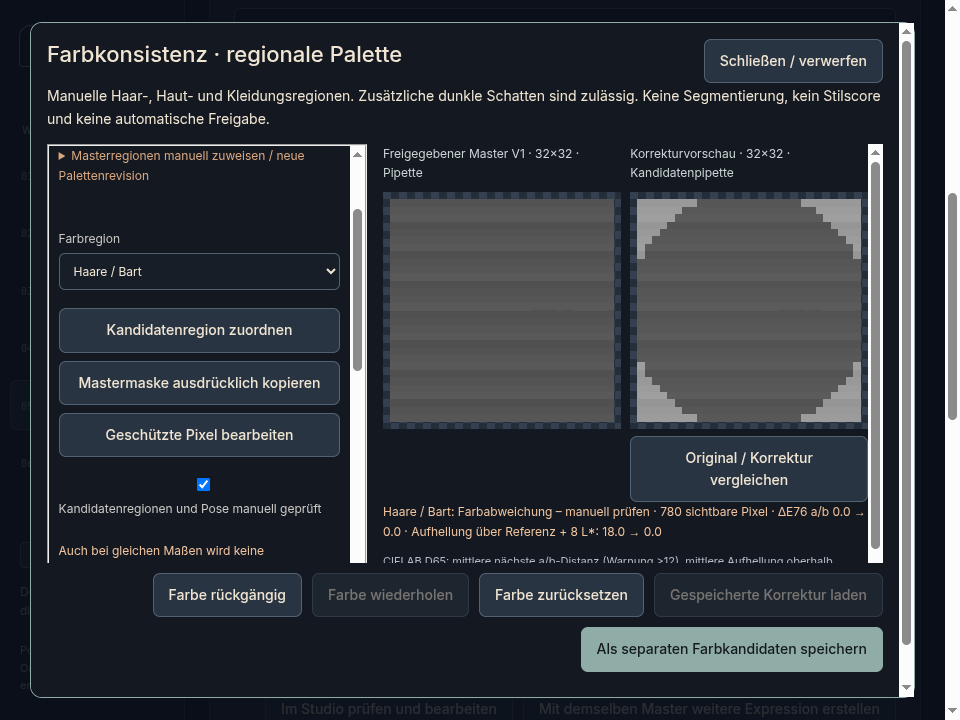
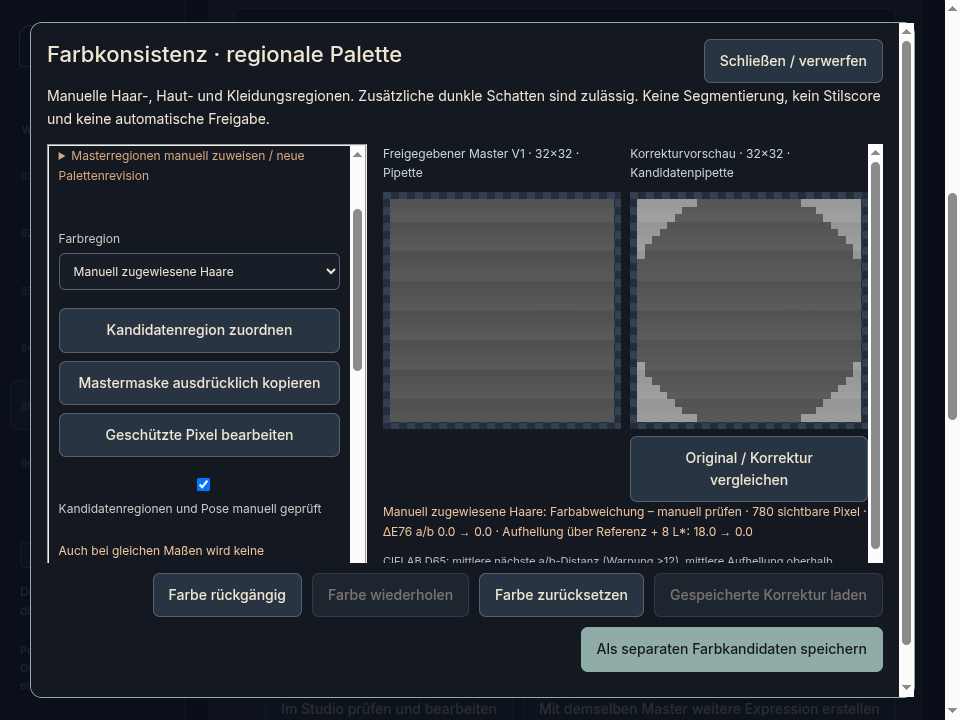
fix: retain edited master palette region names

Changed region(s): [[0.4062, 0.7028, 0.9062, 0.7639], [0.0625, 0.3667, 0.25, 0.3972]]

diff --git a/src/renderer/components/ColorConsistency.tsx b/src/renderer/components/ColorConsistency.tsx
@@ -383,7 +383,7 @@ function ColorEditor({
         tabIndex={-1}
         ref={modal}
         onKeyDown={(e) => {
-          if (e.target instanceof Element && e.target.closest(".mask-dialog"))
+          if (e.target instanceof Element && e.target.closest(".mask-editor"))
             return;
           if (e.key === "Escape" && !mask) {
             e.preventDefault();
@@ -864,6 +864,7 @@ function ColorEditor({
                   ? "Weiß oder Grau schützt den Originalpixel vollständig vor Farbkorrektur. Schwarz lässt Korrekturen zu."
                   : "Weiß wählt Pixel für die regionale Farbprüfung und Korrektur aus. Schwarz lässt sie unverändert. Keine automatische Haar-/Hauterkennung.",
               saveLabel: "In Farbentwurf übernehmen",
+              readOnlyName: mask.kind !== "master",
             }}
             master={
               mask.kind === "master"
@@ -873,7 +874,9 @@ function ColorEditor({
             initialName={
               mask.kind === "protected"
                 ? "Geschützte Pixel (weiß schützt)"
-                : "Farbregion (weiß wählt aus)"
+                : (masterRegions.find((r) => r.id === mask.id)?.name ??
+                  refRegion?.name ??
+                  "Farbregion")
             }
             initialWeights={
               mask.kind === "master"
@@ -884,12 +887,12 @@ function ColorEditor({
                       ?.weights
             }
             onClose={() => setMask(undefined)}
-            onSave={async (weights) => {
+            onSave={async (weights, name) => {
               if (mask.kind === "master") {
                 setMasterRegions((old) =>
                   old.map((r) =>
                     r.id === mask.id
-                      ? { ...r, weights: new Uint8Array(weights) }
+                      ? { ...r, name, weights: new Uint8Array(weights) }
                       : r,
                   ),
                 );

diff --git a/src/renderer/components/MaskEditor.tsx b/src/renderer/components/MaskEditor.tsx
@@ -47,7 +47,12 @@ export function MaskEditor({
   initialWeights?: Uint8Array;
   initialName?: string;
   recipeId?: string;
-  contextLabel?: { title: string; description: string; saveLabel: string };
+  contextLabel?: {
+    title: string;
+    description: string;
+    saveLabel: string;
+    readOnlyName?: boolean;
+  };
   mask?: Mask;
   onSave: (
     weights: Uint8Array,
@@ -968,6 +973,7 @@ export function MaskEditor({
                 Name
                 <input
                   aria-label="Maskenname"
+                  readOnly={contextLabel?.readOnlyName}
                   value={name}
                   maxLength={120}
                   onChange={(e) => {

diff --git a/docs/LF_03A_COLOR_CONSISTENCY.md b/docs/LF_03A_COLOR_CONSISTENCY.md
@@ -65,3 +65,5 @@ Synthetic desktop screenshots: [960×720](screenshots/lf-03a/960x720.png), [1440
 ## Hosted CI findings
 
 [Initial Quality run 44213537633](https://github.com/thomcgn/laceframe/actions/runs/44213537633) passed HIGH classification, Typecheck, Lint, 422 unit tests and build, then failed the general Desktop smoke's exact preload method inventory: it had not yet listed the two new typed reads `colorPalette` and `colorRecipe`. The exact allowlist is extended by those two methods; unrestricted filesystem/Node methods remain forbidden. The complete affected `node scripts/desktop-smoke.cjs`, targeted lint and `git diff --check` passed locally; updated hosted results are recorded in the PR. No tolerance or application assertion is removed. The first hosted attempt is not a passed FULL regression.
+
+The final UI review also caught an ignored mask-name edit. Master-region names now carry through into the immutable palette revision; candidate/protection mask names are read-only because their region meaning comes from that palette. The targeted smoke explicitly edits/verifies the master name and verifies the candidate name is read-only. Typecheck, targeted lint, a package built after this UI change and the complete color smoke passed. The nested editor keyboard guard uses the actual `.mask-editor` class.
